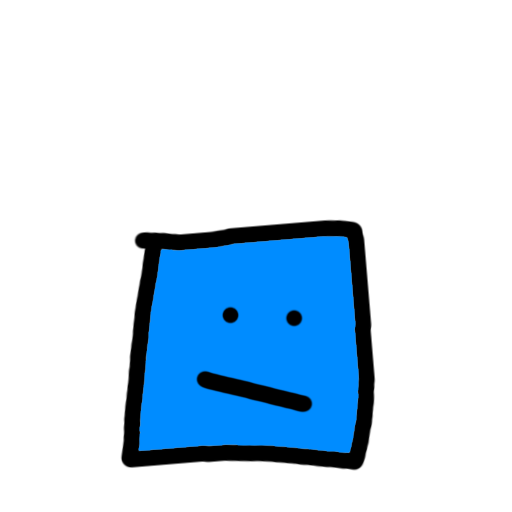
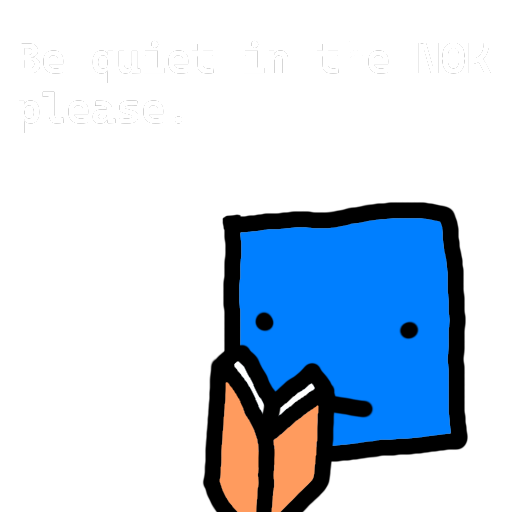
The Update (#12)
* readme changes

* language

* brief explanations

* species work

* i hate markdownlint

* varify

* funnier xpert

* whys the federation here

* human expansion

* arachnid expansion

* species rework

* pirate work

* factions & wars

* category

* tech categories

---------

diff --git a/_includes/custom-head.html b/_includes/custom-head.html
@@ -6,12 +6,17 @@
 <meta name="msapplication-TileColor" content="#da532c">
 <meta name="msapplication-config" content="/sector/images/favicon/browserconfig.xml">
 
-<meta property="og:title" content="Federation Grand Network Of Knowledge">
+<meta property="og:title" content="Network Of Knowledge">
 <meta property="og:description" content="All recorded knowledge on the Quadrant.">
 <meta property="og:image" content="/sector/images/favicon/android-chrome-512x512.png">
 <meta name="theme-color" content="#190E19" data-react-helmet="true">
 
 <style>
+    :root {
+        --bg: #111;
+        --fg: #fff;
+    }
+
     .page-heading {
         display: none !important; 
     }
@@ -19,14 +24,14 @@
         display: none !important;
     }
     .site-header{
-        border-top: 1px solid #111 !important;
-        border-bottom: 1px solid #111 !important;
+        border-top: 1px solid var(--bg) !important;
+        border-bottom: 1px solid var(--bg) !important;
     }
     .site-footer {
         display: none !important;
     }
     .site-nav {
-        background-color: #111 !important;
+        background-color: var(--bg) !important;
     }
 
     .post-content h1,
@@ -40,6 +45,6 @@
     }
 
     body {
-        background-color: #111 !important;
+        background-color: var(--bg) !important;
     }
 </style>

diff --git a/brief_explanation.md b/brief_explanation.md
@@ -1,36 +1,36 @@
 # A Brief Summary
 
-In Sol years, the year is 4853, humans are around the same as humans in the 21st century, speaking Federation English.
+In Sol years, the year is 4853, humans are around the same as humans in the 21st century, speaking Quadrantical Common.
 
-The Milky Way galaxy is commonly known as **The Quadrant**. The quadrant is currently trying to figure out how to keep itself from eradicating itself, the Federation continues to form peace and fail at it, while it also deals with a civil war.
+The Milky Way galaxy is commonly known as **The Quadrant** (or the 33th Quadrant). The quadrant is currently trying to figure out how to keep itself from eradicating itself, the Federation continues to form peace and fail at it, while it also deals with a civil war.
 
-**The Quadrant** consists of multiple **sectors** which are agreed upon by the whole Quadrant.
+**The Quadrant** consists of multiple **sectors** which borders are somewhat agreed upon.
 
-The technological combination of multiple and species, inactive and active, skirmishes and battles forcing rapid technological growth in order to fight the enemy and win have lead to the 4853.
+The technological combination of multiple and species, inactive and active, skirmishes and battles forcing rapid technological growth in order to fight the enemy and win have lead to the year 4853.
 
-The Sol System is declared uninhabitable by the [Federation](factions/federation) after the Earth was deemed uninhabitable due to an [antimatter transport mishap](events/sol_antimatter_misha)
+The Sol System is declared uninhabitable by the [Federation](factions/federation) after the Earth was deemed uninhabitable due to the [sol wars](events/wars/sol_wars).
 
 ## Summarization Of Events
 
-In 2098, Humans finally got off and began orbital stations around Earth. There were numerous arguments about this by the UN but ultimately, an ISS 2.0 was planned alongside civilian housing facilities. Meanwhile, numerous companies began commercial and industrial spaceflights.
+In 2098, humans finally got off the rock known as Earth and began orbital stations around it. There were numerous arguments about this by the UN but ultimately, a main planetary orbital station was planned alongside civilian housing facilities. Meanwhile, numerous companies began commercial and industrial spaceflights.
 
-Progress was slow between 2098-2124 due to Earth politics slowing down, however in 2132 one of the communication satelite officers ordered the shutdown of Earth-Space communication satelites, specifically the command satelites. For 3 days, Earth Commanders were unable to communicate to those in space. On the 4th day, the officer told Earth Commanders formally to stop land conflicts from affecting space.
+The progress between 2098-2124 was slow due to the politics of Earth slowing it down, however in 2132 one of the officers onboard a major communication network ordered the shutdown of Earth-Space communication satelites, specifically the command satelites. For 3 days, commanders from Earth were unable to communicate to those in space. On the 4th day, the officer held the networks hostage, and told the commanders to formally to stop earth politics from affecting space development. <!-- ironic -->
 
 This appeared to be one of the earliest forms of the Federation's existence, as just 21 years later, in 2153 the [Federation](factions/federation) was formed at a rally on an orbital station.
 
-The Federation's goal at the time was simple, make sure land politics stop affecting space politics. Satelites from Earth to space were shut down, with Earth sending marines to the stations to shut it down.
+The Federation's mission at the time was simple, make sure politics on Earth stop affecting politics in space. Satelites from Earth to space were shut down, with Earth sending marines to the stations to shut it down. This started the 2 week long [Federation revolution](events/federation_revolution.md)
 
-Due to all the weapons that the marines used were being manufactured by the Federation, and that the marines had little to no time to train on how to use the weapons; the workers won against the marines and won their independence.
+Due to all the laser weaponry that the marines used were using technology that the Federation created, the Federation quickly stopped supplying Earth with weapons, and the workers won against the marines and won their independence.
 
 Following the creation of the [Federation](factions/federation), multiple divisions of the Federation were created, such as the [Tauri Division](factions/tauri) managing most research, innovation and manufacturing.
 
-Around the time of 2205, the [Federation](factions/federation) began to suspect traitorous activities amongst the [Tauri Division](factions/tauri) workers, and told Tauri mercenaries to take out the main orbital station and wipe the databanks. Around three days later after the order was sent, the [Tauri Division](factions/tauri) threatened to use a planetkiller on the main Federation base, before seceding 2 weeks later.
+Around the time of 2205, the [Federation](factions/federation) began to suspect traitorous activities amongst the [Tauri Division](factions/tauri) workers, and told Tauri mercenaries to take out the main orbital station and wipe the databanks. Around three days later after the order was sent, the [Tauri Division](factions/tauri) threatened to use a planetkiller on the main Federation base sat on one of Saturn's moons Titan, before seceding 2 weeks later.
 
 The [Tauri Division](factions/tauri) (now the Tauri Corporation) was kind enough to license [Ampersand Drives](technology/ampersand_drives) to the [Federation](factions/federation) before seceding.
 
 With the Federation's leading research department seceding, the Federation had to make due with the ships they currently had and created four main divisions: The **Administration**, **Engineering**, **Research** and **Defense** divisions.
 
-In 2425, the [**Genetic Expansion**](events/genetic_expansion) occurred when a [genetic modification experiment](technology/genetic_modification), people were not sure what to do with said alien species. Some people suggested capturing them for research, others suggested incorporating them under the [Federation](factions/federation).
+In 2425, the [**Genetic Expansion**](events/genetic_expansion) occurred during a [genetic modification experiment](technology/genetic_modification), people were not sure what to do with said alien species. Some people suggested keeping them for research, others suggested incorporating them under the [Federation](factions/federation).
 
 It took around 4 years for the [Federation](factions/federation) to come to a consensus, and within those 4 years; rumors of a major civil war occuring were widespread as a certain [Human Union](faction/human_union) were planning to secede. The [Federation](factions/federation) decided to embrace their alien brothers & sisters (and all other wacky genders they have) and welcome them all a seat on the [Federation](factions/federation) council.
 
@@ -40,8 +40,20 @@ The [Human Union](faction/human_union) immediately began to secede after hearing
 
 With the [Human Union](faction/human_union) seceded, it stole technology from the [Federation](factions/federation) as well. The [Human Union](faction/human_union) now had a fleet, and alongside that had contracts with the [Tauri Corporation](factions/tauri).
 
-Today, the [Federation](factions/federation) fights a civil war with the [Human Union](faction/human_union) while the [Tauri Corporation](factions/tauri) rolls in money. Now, you're caught up.
+Today, the [Federation](factions/federation) fights a civil war with the [Human Union](faction/human_union) while the [Tauri Corporation](factions/tauri) rolls in money.
 
 ## Species
 
-blah blah explanation soon
+Humans are the base for all types of species.
+
+There have been no records of alien life, and there probably never will be. Despite that, humans have attempted to make alien species themselves known simply as "Species".
+
+The first few species created were by the [Federation](factions/governments/federation), with those being [Felines](species/felinids), [Thornlings](species/thornlings.md), [Arachnids](species/arachnids.md), and [Elems](species/elems.md)
+
+Felines were essentially the combination of a human and a cat, such as additional hearing, sight and speed. Despite this, they still only had one life; and couldn't really land properly.
+
+Thornlings are the combination of a human and a bush with thorns, developing thorns all over their skin as a defensive mechanism.
+
+Arachnids are the combination of a human and a spider, with the bottom half of their body being spider, and the upper body being human. They had the ability to make webs.
+
+Elems are special, the combination of a molecular combination and a human. This allowed odd abilities that have not fully been documented yet.

diff --git a/index.md b/index.md
@@ -1,16 +1,8 @@
-# Federation Grand Network Of Knowledge
+# Network Of Knowledge | Main Page
 
-> "Hello, I am your XPert, the FGNOK librarian. Though, you can call me PER. If you have any questions, you can search in my query console. Keep quiet in the FGNOK, please."
+> "Hello, I am your XPert, the NOK librarian. Though, you can call me PER, standing for Perceptional Exceptional Responder. If you have any questions, you can search in my query console. Keep quiet in the NOK, please. My nodes don't like it when the sound sensors get overloaded."
 
-## Get Started
-
-New to the universe? You can read the [Brief Explanation](brief_explanation) to read what's up, and if you wish to know it all, you can read the [FGNOK index](page_index)! If you wish to get inspiration on writing about a new faction, new technology or more then you can take a look at articles such as the [Tauri Corporation](factions/tauri), [Quadrantal Federation](factions/federation) and the [BEOWULF](factions/minor/beowulf).
-
-## XPert
-
-**XPert** is the AI that manages the FGNOK, though usually it doesn't make sense. You are able to help out **XPert** by [contributing here](https://github.com/Just-a-Unity-Dev/sector)! New contributions are always welcome.
-
-![xpert](images/jokes/xpert.png)
+The Network of Knowledge is a library of information gathered through multiple sources such as anonymous submissions, interviews of countless people from countless sides, the secrecy of the NOK and years of piecing together information by an underpaid AI. If you are reading this, you are most likely one of the few people in the Quadrant (or beyond!) to gather almost **all information on seperate sides**, this includes (but are not limited to) intelligence agencies, massacres, cults, classified documents, and more.
 
 ## Things to keep in mind
 

diff --git a/README.md b/README.md
@@ -1,12 +1,22 @@
-# sector
+# Sector
 
-A homebrew Sci-Fi universe, read it [here](https://just-a-unity-dev.github.io/sector/).
+> "Hello, I am your XPert, the NOK librarian. Though, you can call me PER, standing for Perceptional Exceptional Responder. If you have any questions, you can search in my query console. Keep quiet in the NOK, please. My nodes don't like it when the sound sensors get overloaded."
 
-## origin
+<img alt="xpert" src="./images/jokes/xpert.png" width=300 align="right">
 
-Originally came from a single Dungeons & Dragons campaign during winter break is now a whole universe with diplomacy and more to enjoy, the Sectors are growing every day.
+**Sector** is a Sci-Fi universe, you can read it [here](https://just-a-unity-dev.github.io/sector/).
 
-## inspirations
+## Notice
+
+This website is essentially a fancy book, there will rarely (if ever) be an Out of Context (OOC) reference. Despite this, every single thing is documented from a neutral perspective.
+
+## Origin
+
+Originally came from a single Dungeons & Dragons campaign during winter break is now a whole universe with diplomacy and more to enjoy, the different sectors in the Quadrant are growing every day.
+
+## Inspirations
+
+This is a list of major inspirations for the sector universe.
 
 - [FTL: Faster Than Light](https://store.steampowered.com/app/212680/FTL_Faster_Than_Light/)
 - [Into The Breach](https://store.steampowered.com/app/590380/Into_the_Breach)

diff --git a/technology/ai_cores.md b/technology/ai_cores.md
@@ -1,9 +1,13 @@
+---
+categories: [Technology]
+---
+
 # AI Cores
 
 ![ai core](../images/thumbnail/ai_core.png)
 
-**AI Cores** (standing for Artificial Intelligence) are advanced computers capable of holding a sentient being or creating a sentient being for a special edge-case. Usually, preserving sentient minds or maintaining a ship.
+**AI Cores** (standing for Artificial Intelligence) are advanced computers capable of holding a sentient being or creating a sentient being for a special edge-case. These special edge cases range from maintaining a ships course during long trips or preserving sentient minds.
 
 **AI Cores** were first developed by the [Tauri Division](../factions/tauri) in the early founding of the [Federation](../factions/federation). **AI Cores** at the time were able to hold a human brain's consciousness indefinetely.
 
-**Artificial Consciousness** were developed by the [Tauri Corporation](../factions/tauri) a few years after seceding from the [Federation](../factions/federation), allowing a user to create a completely unique consciousness to their desire.
+**Sentient Artificial Consciousness** were developed by the [Tauri Corporation](../factions/tauri) a few years after seceding from the [Federation](../factions/federation), allowing a user to create a completely unique consciousness to their desire.

diff --git a/technology/databank.md b/technology/databank.md
@@ -1,7 +1,11 @@
+---
+categories: [Technology]
+---
+
 # Databank
 
 ![databank](../images/thumbnail/databanks.png)
 
-Databanks are massive binary storage devices (optionally with a 'perma-lock' stuck onto it). Databanks on ships are usually built into an [AI Core](ai_cores) while the [Federation Great Network Of Knowledge](network_of_knowledge) usually consists of major databanks the size of entire libraries, holding around 500x more information than the average library.
+Databanks are massive binary storage devices designed to store almost 1 yottabyte in just a small structure. Databanks on ships are usually built into an [AI Core](ai_cores) while the [Federation Great Network Of Knowledge](network_of_knowledge) usually consists of major databanks the size of entire libraries, holding around 500x more information than the average library.
 
 A 'perma-lock' allows full writing privileges to the disk until a physical switch is pulled preventing any writing.

diff --git a/events/wars/office_purge.md b/events/wars/office_purge.md
@@ -1,0 +1,26 @@
+# Office Purge
+
+The **Office Purge** was a conflict between [Paperclip Incorporated](../../factions/companies/paperclips.md) and other factions about creating a monopoly in the office supply and the destruction of all commercial non-paperclip incorporated office supplies.
+
+## Details
+
+**Result**:  Total [Paperclip Incorporated](../../factions/companies/paperclips.md) victory
+
+* Erradication of all foreign office supplies in the entire Quadrant
+
+**Participants**:
+
+|||
+|---|---|
+|[Federation](../../factions/governments/federation.md)|[Paperclip Incorporated](../../factions/companies/paperclips.md)|
+|[Human Union](../../factions/organization/human_union.md.md)||
+|[Tauri](../../factions/companies/tauri.md)||
+
+**Casualties and Losses**:
+
+|||
+|---|---|
+|**Military Dead**:|**Military Dead**:|
+|Over 18,000,000 dead|Over 152,000,000 dead|
+|**Other Losses**:|**Other Losses**:|
+|All ffice supply factories and office supplies||

diff --git a/factions/companies/paperclips.md b/factions/companies/paperclips.md
@@ -1,0 +1,11 @@
+# Paperclip Incorporated
+
+<!-- ![paperclips flag]() -->
+
+>"A Paperclip Maximizer is a hypothetical artificial intelligence whose utility function values something that humans would consider almost worthless, like maximizing the number of paperclips in the universe." - A brief description on the Paperclip Maximizer.
+
+**Paperclip Incorporated** is a company that produces high-quality mundane office supplies such as pens, paper and the main product being **paperclips**, however their objective is simple: to create the most amount of paperclips in the universe as possible, and their objective is the reason why they also manufacture robotic armies to wage war on many sectors, despite their controversies, almost all factions buy custom-made office supplies from Paperclip Incorporated due to them destroying all of them in the [Office Purge](../../events/wars/office_purge.md)
+
+## Diplomatic Chart
+
+- **Enemies:** All

diff --git a/factions/organization/human_union.md b/factions/organization/human_union.md
@@ -10,9 +10,9 @@ The **Human Union** is a group of human supremacists who believe that alien spec
 
 Originally rumored to occur as a joke when the [Federation](../governments/federation) began to figure out what to do with these alien species, the main reason why this occurred was due to many workers believing that their jobs will be replaced by an alien; as many [Federation](../governments/federation) workers worked hazardous jobs, and these alien species were much more agile, allowing for less accidents,
 
-## [Federation-Union War](../events/federation_civil_war.md)
+## [Federation-Union War](../events/wars/federation_civil_war.md)
 
-The **Human Union** is currently winning the [Federation-Union War](../events/federation_civil_war.md).
+The **Human Union** is currently winning the [Federation-Union War](../events/wars/federation_civil_war.md).
 
 ## Diplomatic Chart
 

diff --git a/species/arachnids.md b/species/arachnids.md
@@ -1,3 +1,19 @@
 # Arachnids (Arachnid)
 
-Half-human half-spider, with 8 legs. Faster and can make webs slowing prey.
+A human with their bottom half replaced with one of a spider.
+
+## Appearance
+
+Arachnids appear to have the bottom half of their bodies replaced with the body of a spider, with the ability to create webs and has 8 legs - not to mention they are able to climb surfaces easily.
+
+## Anatomy
+
+The arachnid's lower body seems to have the same organs as a regular tarantula, except sized to fit a human.
+
+## Origin
+
+Originated in a Tauri Division laboratory, as 25 test subjects were mutated alongside a tarantula sample and created the arachnid species.
+
+## Post Genetic Expansion
+
+Arachnids got a lot of hate by the Union, and joined the Federation.

diff --git a/species/humans.md b/species/humans.md
@@ -1,2 +1,19 @@
 # Humans (Human)
-  Humans are boring and uninteresting.
+
+All species are subsets of human, they are boring and uninteresting; not to mention they are everywhere, being the most common species by far.
+
+## Appearance
+
+Humans look like humans, what else is there?
+
+## Anatomy
+
+Humans have human organs, what else is there?
+
+## Origin
+
+Human life originated in the Sol system, specifically on Earth, evolving from the apes.
+
+## Post Genetic Expansion
+
+Humans mainly divided into either the [Union](../factions/organization/human_union.md) or the [Federation](../factions/governments/federation.md) - as the Genetic Expansion caused mass drama in the entire Quadrant, being the main cause for the war.

diff --git a/categories.md b/categories.md
@@ -1,0 +1,23 @@
+---
+layout: page
+permalink: /categories/
+title: Categories
+---
+
+<div id="archives">
+  {% for category in site.categories %}
+    <div class="archive-group">
+      {% capture category_name %}{{ category | first }}{% endcapture %}
+      <div id="#{{ category_name | slugize }}"></div>
+      <h3 class="category-head">{{ category_name }}</h3>
+      <a name="{{ category_name | slugize }}"></a>
+      {% for post in site.categories[category_name] %}
+      <article class="archive-item">
+        <h4>
+            <a href="{{ site.baseurl }}{{ post.url }}">{{post.title}}</a>
+        </h4>
+      </article>
+      {% endfor %}
+    </div>
+  {% endfor %}
+</div>
